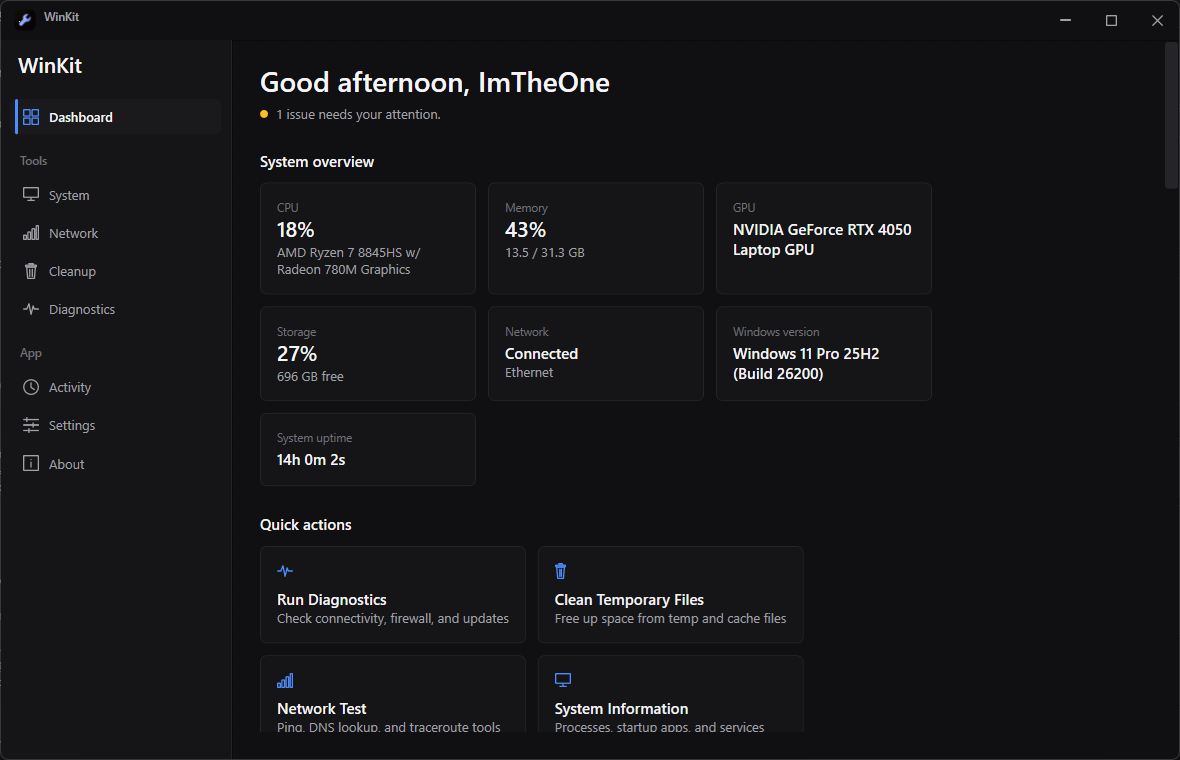
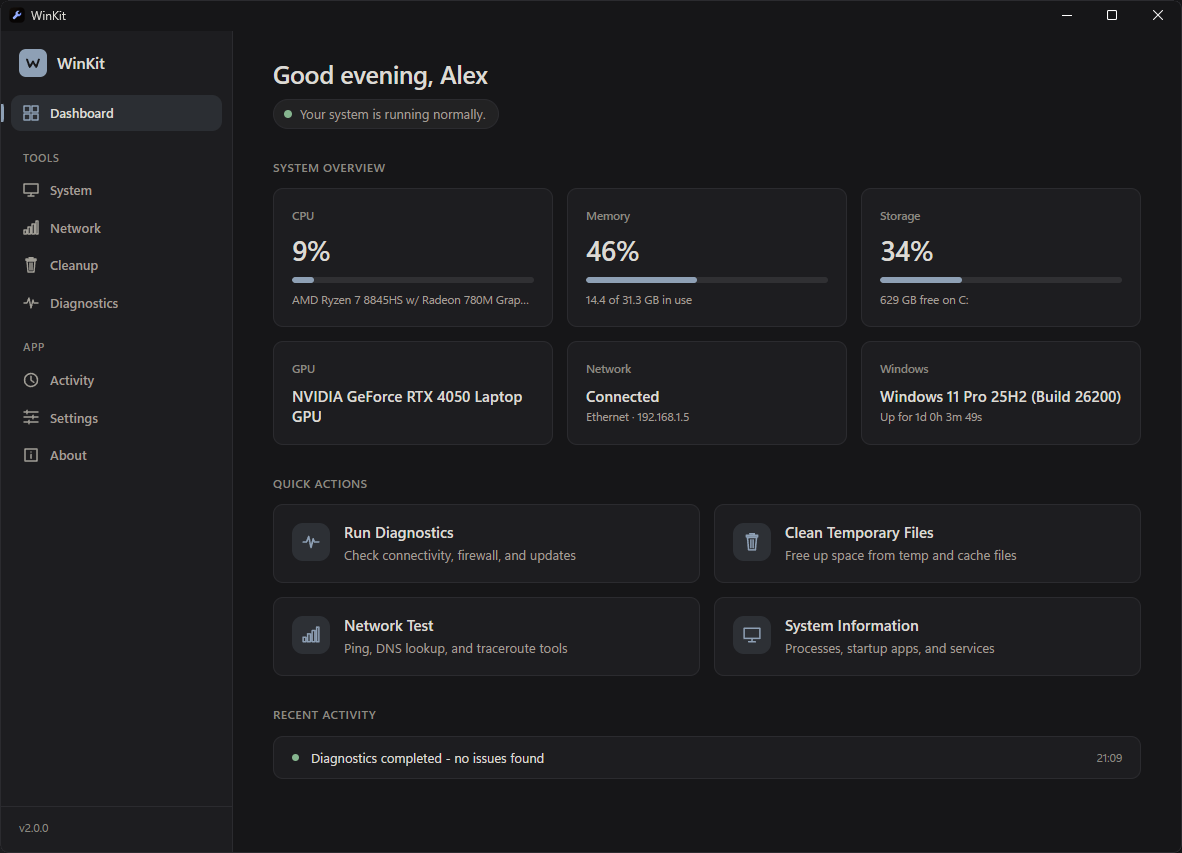
Update the site for WinKit 2.0.0
- version, feature copy, tech list and download cards now describe 2.0.0
  (portable exe + zip, installer, WebView2 requirement, real file sizes)
- new overview screenshot of the 2.0 dashboard (Dusk theme), shown at its
  real 1182x853 aspect ratio instead of the old 1180x760 crop

diff --git a/docs/index.html b/docs/index.html
@@ -52,7 +52,7 @@
           <a class="link-underline" href="https://github.com/Im4Theone/WinKit" target="_blank" rel="noopener noreferrer">View on GitHub</a>
         </div>
 
-        <p class="hero-meta reveal">Version 1.2 &nbsp;·&nbsp; Windows 10 / 11 &nbsp;·&nbsp; x64</p>
+        <p class="hero-meta reveal">Version 2.0.0 &nbsp;·&nbsp; Windows 10 / 11 &nbsp;·&nbsp; x64</p>
       </div>
     </section>
 
@@ -62,8 +62,8 @@
         <figure class="shot reveal">
           <img
             src="assets/winkit-dashboard.png"
-            alt="The WinKit dashboard, showing a system overview with CPU, memory, GPU, storage, network, Windows version and uptime, alongside quick actions for diagnostics and cleanup."
-            width="1180" height="760" decoding="async" />
+            alt="The WinKit dashboard in the Dusk theme: usage meters for CPU, memory and storage, cards for GPU, network and Windows version with uptime, quick actions for diagnostics, cleanup, network tests and system information, and a recent activity list."
+            width="1182" height="853" decoding="async" />
         </figure>
       </div>
     </section>
@@ -77,17 +77,17 @@
         <div class="feature-grid">
           <article class="feature reveal">
             <h3>System information</h3>
-            <p>CPU, memory, GPU, storage, network, Windows build and uptime in one overview — instead of Settings, Task Manager and <span class="mono">winver</span>.</p>
+            <p>CPU, memory, GPU, storage, network, Windows build and uptime in one overview, with usage meters that change colour as they fill — instead of Settings, Task Manager and <span class="mono">winver</span>.</p>
           </article>
 
           <article class="feature reveal">
             <h3>Diagnostics</h3>
-            <p>A one-click pass over connectivity, firewall and update health, reported in plain language rather than error codes.</p>
+            <p>Eleven checks across connectivity, drivers, disk health, services and Windows Update, reported in plain language rather than error codes — with a one-click fix wherever one exists.</p>
           </article>
 
           <article class="feature reveal">
             <h3>Processes &amp; services</h3>
-            <p>A live process list with auto-refresh and freeze / unfreeze, plus service and startup entry management in the same window.</p>
+            <p>A live process list with real memory and CPU for every process and freeze / unfreeze, plus service and startup entry management in the same window.</p>
           </article>
 
           <article class="feature reveal">
@@ -97,7 +97,7 @@
 
           <article class="feature reveal">
             <h3>Cleanup</h3>
-            <p>Scan temporary and cache locations, see what each category actually holds, and reclaim only the space you choose to.</p>
+            <p>Scan temporary files, the thumbnail and Windows Update caches and the Recycle Bin, see what each category actually holds, and reclaim only the space you choose to.</p>
           </article>
 
           <article class="feature reveal">
@@ -107,7 +107,7 @@
         </div>
 
         <p class="features-note reveal">
-          Four built-in themes with custom theme import, plus adjustable density, corner radius and font scale.
+          Six built-in themes — the warm, flat Dusk by default — with custom theme import and export, plus adjustable density, corner radius and font scale. Ctrl+1 to Ctrl+8 jump between pages.
           Settings and activity stay on the machine under <span class="mono">%LOCALAPPDATA%\WinKit</span> — no account, no cloud sync, no telemetry.
         </p>
       </div>
@@ -118,7 +118,7 @@
       <div class="wrap">
         <p class="eyebrow reveal">Made with</p>
         <p id="made-title" class="tech-list reveal">
-          <span class="tech-item">C#</span><span class="tech-sep">·</span><span class="tech-item">Windows API</span>
+          <span class="tech-item">C++</span><span class="tech-sep">·</span><span class="tech-item">Windows API</span><span class="tech-sep">·</span><span class="tech-item">WebView2</span><span class="tech-sep">·</span><span class="tech-item">HTML / CSS / JS</span>
         </p>
       </div>
     </section>
@@ -127,27 +127,27 @@
     <section class="download" id="download" aria-labelledby="download-title">
       <div class="wrap">
         <p class="eyebrow reveal">Download</p>
-        <h2 id="download-title" class="reveal">Version 1.2</h2>
+        <h2 id="download-title" class="reveal">Version 2.0.0</h2>
 
         <div class="download-grid">
           <article class="download-card reveal">
             <h3>Portable x64</h3>
-            <p>Unzip and run. Nothing is installed, nothing is registered.</p>
-            <a class="btn" href="https://github.com/Im4Theone/WinKit/releases/download/1.2/WinKit-1.2.0-portable.zip">Download .zip</a>
-            <p class="download-size">57 MB</p>
+            <p>One small file. Download and run it — nothing is installed, nothing is registered.</p>
+            <a class="btn" href="https://github.com/Im4Theone/WinKit/releases/download/2.0.0/WinKit-2.0.0-portable.exe">Download .exe</a>
+            <p class="download-size">1.2 MB &nbsp;·&nbsp; <a class="link-underline" href="https://github.com/Im4Theone/WinKit/releases/download/2.0.0/WinKit-2.0.0-portable.zip">or as .zip</a></p>
           </article>
 
           <article class="download-card reveal">
             <h3>Installer x64</h3>
-            <p>Installs to Program Files with a Start Menu shortcut and an uninstaller.</p>
-            <a class="btn" href="https://github.com/Im4Theone/WinKit/releases/download/1.2/WinKitSetup-1.2.0.exe">Download .exe</a>
-            <p class="download-size">43 MB</p>
+            <p>Installs to Program Files with a Start Menu shortcut, an uninstaller and in-app updates.</p>
+            <a class="btn" href="https://github.com/Im4Theone/WinKit/releases/download/2.0.0/WinKitSetup-2.0.0.exe">Download .exe</a>
+            <p class="download-size">2.4 MB</p>
           </article>
         </div>
 
         <p class="download-meta reveal">
-          Windows 10 / 11 &nbsp;·&nbsp; x64
-          <span class="download-meta-sub">Self-contained build — no separate runtime install. Updates are checked against GitHub Releases.</span>
+          Windows 10 (1809 or later) / 11 &nbsp;·&nbsp; x64
+          <span class="download-meta-sub">No .NET runtime to install. Needs the Microsoft Edge WebView2 Runtime, which Windows 11 and current Windows 10 already include. Updates are checked against GitHub Releases.</span>
         </p>
       </div>
     </section>

diff --git a/docs/style.css b/docs/style.css
@@ -347,7 +347,7 @@ main section {
 .shot img {
   width: 100%;
   height: auto;
-  aspect-ratio: 1180 / 760;
+  aspect-ratio: 1182 / 853;
   object-fit: cover;
 }
 
